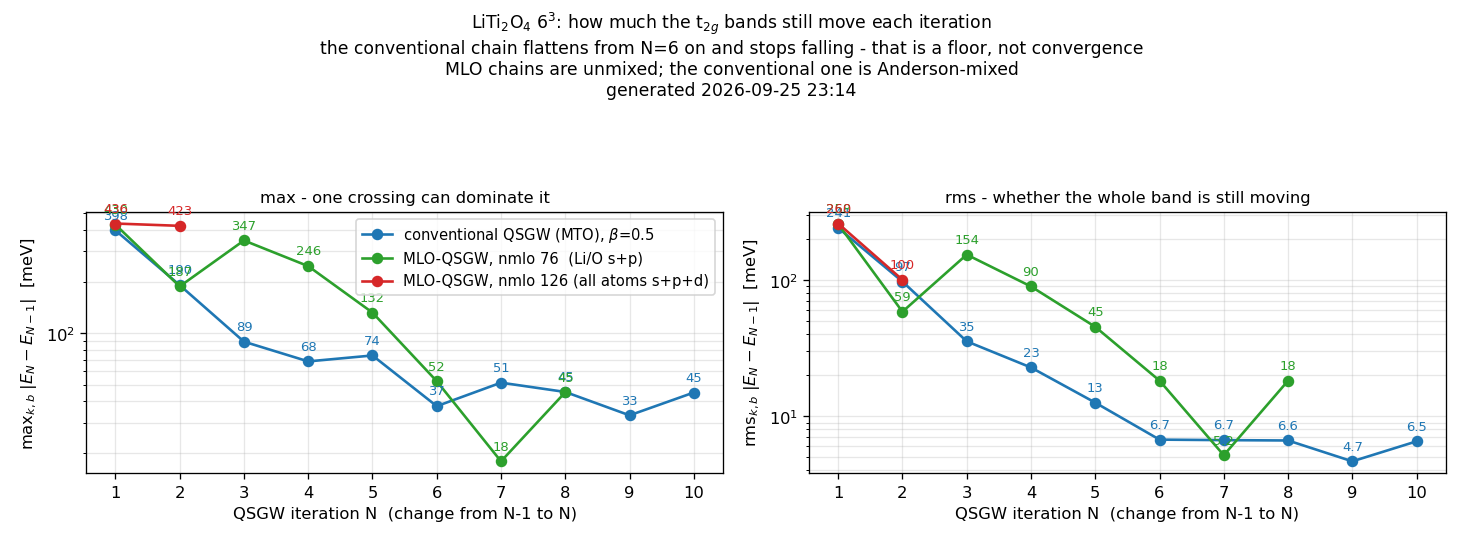
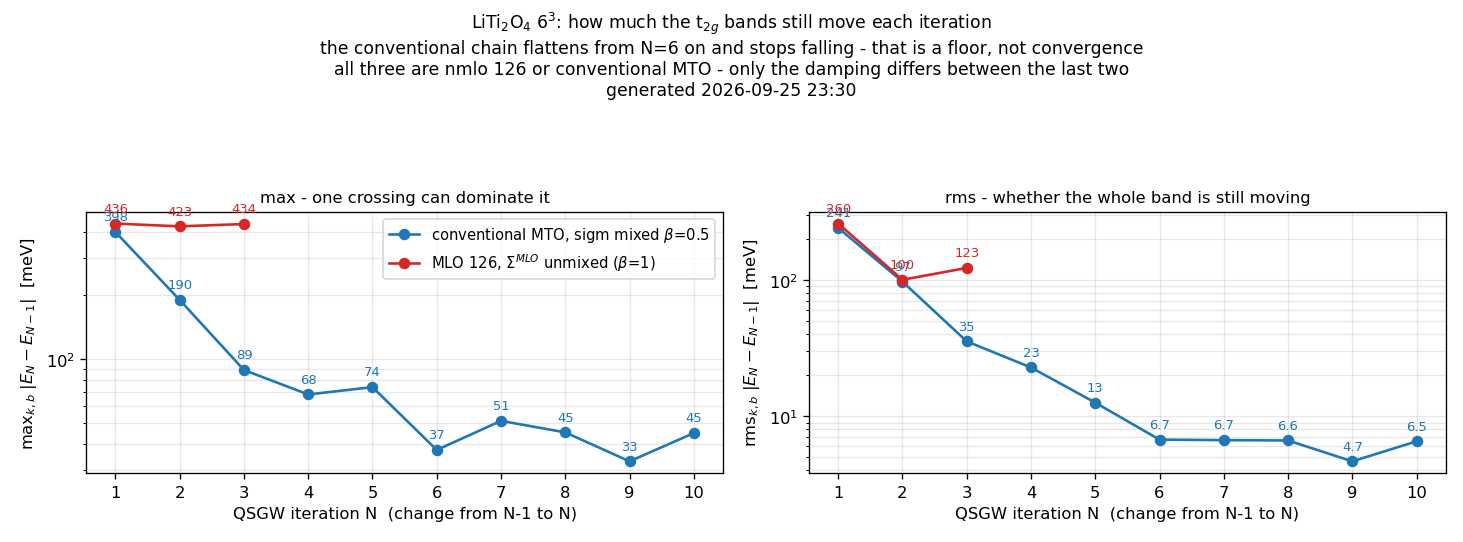
kBT_research: freeze the v6/v7 figure and set up a mount for the mixed chain
v7 is stopped at iteration 3.  Its figure is frozen as mlo_rows_2326.png and
mlo_conv_2326.png under a 23:26 entry that records where it got to and why it was
stopped: with the MLO chain unmixed and the conventional one at mixbeta=0.5, the
comparison mixes a difference of representation with a difference of damping.

The living section now tracks liti_mlo_v8 -- same nmlo 126, Sigma^MLO Anderson-mixed
at beta=0.5 -- against the conventional chain and against v7, so only the damping
differs between the last two columns.  Its LDA row is filled (bit-identical to v7)
and the rest fills in as iterations land.

mlo_rows takes a colour list so the two figures agree on which chain is which, and
its caption no longer claims every MLO column is unmixed.

diff --git a/Samples/kBT/LiTi2O4/mlo_rows.py b/Samples/kBT/LiTi2O4/mlo_rows.py
@@ -11,7 +11,8 @@ ROOT, OUT = sys.argv[1], sys.argv[2]
 # argv[3] and argv[4] are comma-separated: one MLO chain per column, left to right
 MLODIR = (sys.argv[3] if len(sys.argv) > 3 else 'frozen').split(',')
 MLOLAB = (sys.argv[4] if len(sys.argv) > 4 else 'MLO-QSGW').split(',')
-MLOCOL = ['tab:green', 'tab:red', 'tab:purple', 'tab:orange']
+MLOCOL = (sys.argv[5].split(',') if len(sys.argv) > 5
+          else ['tab:green', 'tab:red', 'tab:purple', 'tab:orange'])
 COLS = [('conventional QSGW (MTO), pwmode=1', f'{ROOT}/ref', 'tab:blue')] + \
        [(MLOLAB[i] if i < len(MLOLAB) else d, f'{ROOT}/{d}', MLOCOL[i % len(MLOCOL)])
         for i, d in enumerate(MLODIR)]
@@ -55,9 +56,8 @@ for a in AX[-1]: a.set_xlabel('$\\Gamma \\to X$')
 stamp = datetime.datetime.now().strftime('%Y-%m-%d %H:%M')
 fig.suptitle('LiTi$_2$O$_4$  6$^3$ (nkabc = n1n2n3 = 6$^3$)   t$_{2g}$ (b33-44) along $\\Gamma\\to X$, 211 points\n'
              'dotted = $\\Sigma$ q-mesh points (interpolation is exact there)\n'
-             'CAUTION 1: different APW cutoffs - MTO chain pwmode=1 (|G|), MLO chains pwmode=11 (|q+G|)\n'
-             'CAUTION 2: different damping - the MTO chain Anderson-mixes sigm ([gw] mixbeta=0.5),\n'
-             'the MLO chains do not mix Sigma^MLO at all (effective beta=1)\n'
+             'CAUTION: different APW cutoffs - MTO chain pwmode=1 (|G|), MLO chains pwmode=11 (|q+G|).\n'
+             'Each column states its own damping; the MTO chain always Anderson-mixes sigm at [gw] mixbeta\n'
              f'generated {stamp}', fontsize=10.5)
 plt.tight_layout(rect=[0, 0, 1, 1 - 0.95/(2.5*n + 1.0)])
 plt.savefig(OUT, dpi=115)

diff --git a/Samples/kBT/LiTi2O4/mlo_conv.py b/Samples/kBT/LiTi2O4/mlo_conv.py
@@ -23,9 +23,9 @@ def chain(d):
         f = f'{d}/bnd_lda.dat' if i == 0 else f'{d}/bnd_iter{i}.dat'
         if os.path.exists(f): o[i] = rd(f)
     return o
-C = [('conventional QSGW (MTO), $\\beta$=0.5',   chain(f'{ROOT}/ref'), 'tab:blue'),
-     ('MLO-QSGW, nmlo 76  (Li/O s+p)',        chain(f'{ROOT}/v6'),  'tab:green'),
-     ('MLO-QSGW, nmlo 126 (all atoms s+p+d)', chain(f'{ROOT}/v7'),  'tab:red')]
+C = [('conventional MTO, sigm mixed $\\beta$=0.5',        chain(f'{ROOT}/ref'), 'tab:blue'),
+     ('MLO 126, $\\Sigma^{MLO}$ unmixed ($\\beta$=1)',      chain(f'{ROOT}/v7'),  'tab:red'),
+     ('MLO 126, $\\Sigma^{MLO}$ mixed $\\beta$=0.5',        chain(f'{ROOT}/v8'),  'tab:purple')]
 C = [c for c in C if len(c[1]) > 1]
 fig, AX = plt.subplots(1, 2, figsize=(12.4, 4.6), sharex=True)
 for ax, how, lab in [(AX[0], 'max', r'max$_{k,b}\;|E_N-E_{N-1}|$  [meV]'),
@@ -47,7 +47,7 @@ AX[0].set_title('max - one crossing can dominate it', fontsize=10)
 AX[1].set_title('rms - whether the whole band is still moving', fontsize=10)
 fig.suptitle('LiTi$_2$O$_4$ 6$^3$: how much the t$_{2g}$ bands still move each iteration\n'
              'the conventional chain flattens from N=6 on and stops falling - that is a floor, not convergence\n'
-             'MLO chains are unmixed; the conventional one is Anderson-mixed\n'
+             'all three are nmlo 126 or conventional MTO - only the damping differs between the last two\n'
              f'generated {datetime.datetime.now():%Y-%m-%d %H:%M}', fontsize=10.5)
 plt.tight_layout(rect=[0, 0, 1, 0.88])
 plt.savefig('/home/takao/ecalj/Samples/kBT/LiTi2O4/mlo_conv.png', dpi=118)

diff --git a/Samples/kBT/kBT_research.md b/Samples/kBT/kBT_research.md
@@ -15,16 +15,28 @@
 
 ## 最新の図（走行中のチェーンを映す。ここだけ上書きされる）
 
-**最終更新 2026-09-25 23:14** ／ `liti_mlo_v7`（nmlo 126）は iter 2 まで、走行中
+**最終更新 2026-09-25 23:35** ／ 追っているのは **`liti_mlo_v8`**（nmlo 126、**$\Sigma^{\rm MLO}$ を β=0.5 で混合**、10 反復投入、23:27 開始）
 
-*図 L-1* LiTi2O4 6³ の t2g（b33–44）、Γ→X 211 点。左 = 従来 MTO、中 = MLO 76、右 = MLO 126
+3 列とも **nmlo 126 か従来 MTO** で、**減衰条件だけが違う**組にしてある。
+
+| 列 | チェーン | 表現 | $\Sigma$ の減衰 | `pwmode` |
+|---|---|---|---|---|
+| 左 | `liti_ref` | 従来 MTO | `sigm` を Anderson 混合 β=0.5 | 1 |
+| 中 | `liti_mlo_v7` | MLO 126 | **無混合**（実効 β=1）。iter 3 で停止 | 11 |
+| 右 | **`liti_mlo_v8`** | MLO 126 | **Anderson 混合 β=0.5** | 11 |
+
+LDA 行は 3 列とも同じ計算（`ehf = -109750.177649 eV`。v7 と v8 の `bnd_lda.dat` は **bit 一致**を確認）。
+v7 と v8 は iter 1 の GW まで同一で、**書き出す $\Sigma$ が混合の有無で分かれる**
+（v8 の iter 1 は履歴が無いので $x_0=0$、すなわち $\Sigma_1 = 0.5\,\Sigma^{\rm out}_1$ になる）。
+
+*図 L-1* t2g（b33–44）、Γ→X 211 点。反復が進むと下へ伸びる
 
 [![mlo_rows](LiTi2O4/mlo_rows.png)](LiTi2O4/mlo_rows.png)
 
 `Samples/kBT/LiTi2O4/mlo_rows.png`
-（生成: `mlo_rows.py <root> <out.png> v6,v7 'ラベル1,ラベル2'`。root に `ref/ v6/ v7/` を置く）
+（生成: `mlo_rows.py . out.png v7,v8 'MLO 126  Sigma^MLO unmixed (beta=1),MLO 126  Sigma^MLO mixed beta=0.5' 'tab:red,tab:purple'`）
 
-*図 L-2* 反復ごとのバンド変化。左 = max（少数の交差に支配される）、右 = rms（全体が動いているか）
+*図 L-2* 反復ごとのバンド変化。左 = max、右 = rms
 
 [![mlo_conv](LiTi2O4/mlo_conv.png)](LiTi2O4/mlo_conv.png)
 
@@ -36,18 +48,50 @@
 |---|---|---|---|---|---|---|---|---|---|---|
 | 従来 MTO max | 398 | 190 | 89 | 68 | 74 | 37 | 51 | 45 | 33 | 45 |
 | 従来 MTO rms | 241 | 97 | 35 | 23 | 13 | 6.7 | 6.7 | 6.6 | 4.7 | 6.5 |
-| MLO 76 max | 430 | 187 | 347 | 246 | 132 | 52 | 18 | 45 | | |
-| MLO 76 rms | 258 | 59 | 154 | 90 | 45 | 18 | 5.2 | 18 | | |
-| **MLO 126 max** | 436 | 423 | | | | | | | | |
-| **MLO 126 rms** | 269 | 100 | | | | | | | | |
+| MLO 126 無混合 max | 436 | 423 | 434 | | | | | | | |
+| MLO 126 無混合 rms | 260 | 100 | 123 | | | | | | | |
+| **MLO 126 β=0.5 max** | | | | | | | | | | |
+| **MLO 126 β=0.5 rms** | | | | | | | | | | |
 
-**前提**: 従来列は `pwmode=1` で `sigm` を Anderson 混合（`[gw] mixbeta = 0.5`）、
-MLO 列は `pwmode=11` で **$\Sigma^{\rm MLO}$ は無混合**（実効 $\beta=1$）。
-描画は 3 列とも `mloON=0`、すなわち従来 `sigm` 内挿。詳細は 22:53 のエントリ。
+（参考・凍結）nmlo 76 無混合: max 430/187/347/246/132/52/18/45、rms 258/59/154/90/45/18/5.2/18
 
 ## 2026-09-25
 
 （図表の番号は `図 HH:MM-n` / `表 HH:MM-n`。HH:MM はそのエントリの時刻、n はエントリ内の通し番号。エントリの時刻は変わらないので番号は安定する。）
+
+### 2026-09-25 23:26 **v7（無混合）を iter 3 で停止 → β=0.5 で混合した v8 を iter 1 から**（user「iter 1 からスタートして mix 0.5 でやれるか」）
+
+v7 は iter 3 まで。**混合ありの従来連鎖と減衰条件が違うまま**では、表現の差と減衰の差が混ざって
+判定できない。`ECALJ_MLO_MIX=1`（21:35 で実装し既定 OFF にしたもの）を立てて、
+**同じ nmlo 126 を β=0.5 の混合つきで iter 1 から**回し直す。
+
+*表 23:26-1* v7 の到達点（無混合）
+
+| $N$ | 1 | 2 | 3 |
+|---|---|---|---|
+| max | 436 | 423 | 434 |
+| rms | 260 | 100 | 123 |
+
+v6（nmlo 76）と同じく iter 3 で盛り上がる overshoot の形だが、v6 ほど鋭くない（v6 は rms 59→154、v7 は 100→123）。
+
+*図 23:26-1, 23:26-2* この時点に凍結した図（左 = 従来、中 = MLO 76、右 = MLO 126 無混合）
+
+[![mlo_rows_2326](LiTi2O4/mlo_rows_2326.png)](LiTi2O4/mlo_rows_2326.png)
+
+[![mlo_conv_2326](LiTi2O4/mlo_conv_2326.png)](LiTi2O4/mlo_conv_2326.png)
+
+`Samples/kBT/LiTi2O4/mlo_rows_2326.png`, `mlo_conv_2326.png`
+
+**環境変数の伝播を先に確認した**。`run_cmd.py` は `env = os.environ.copy()` で `mpirun` に渡すが、
+ランクまで届くかは MPI 実装次第なので、17 分待って空振りしないよう
+`mpirun -np 2 printenv ECALJ_MLO_MIX` で先に確かめた（両ランクで `1`）。
+`run_snap.sh` は `ECALJ_MLO_MIX` の値と、各反復の `Sigma^MLO mixing section` の出現回数を
+`steps.log` に記録するようにした（`mlomix=`）。混合の有無が違うチェーンは比較できないため。
+
+**user の懸念（記録）**: `mixbeta = 0.5` だと**別の解**に落ちるのではないか。
+従来連鎖は 5 反復 rms が平坦（6.5 meV）で、単一の固定点に落ちている証拠が無い。
+β を変えて別の点に落ち着くなら、まさにその兆候になる。
+切り分けは**従来連鎖を β=1 で回し直して 10 反復目を比べる**こと。**未実施**。
 
 ### 2026-09-25 22:53 **図を 3 列に拡張（従来 / MLO 76 / MLO 126）。リンギングが $E_F$ の上から下へ移っている**（user「うねってるバンドがある」）
 
